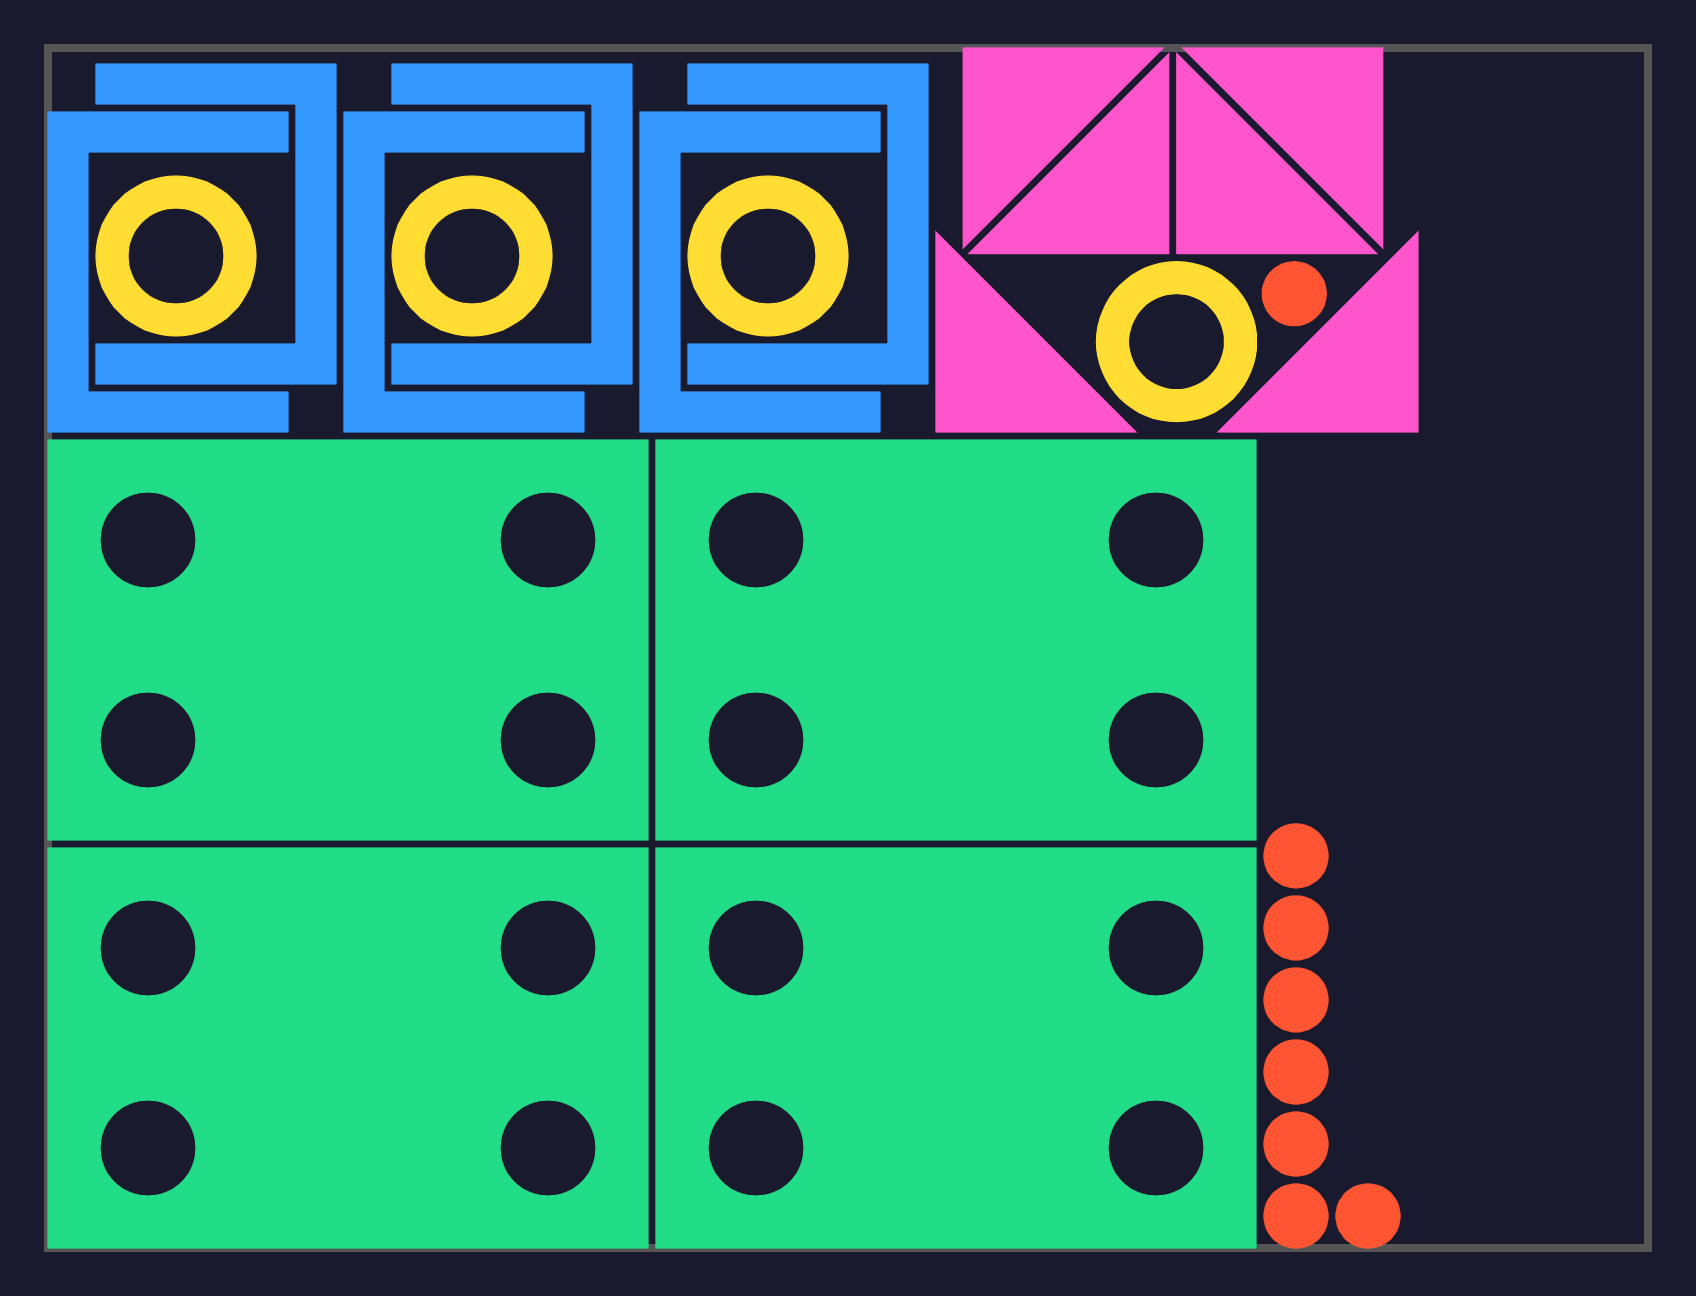
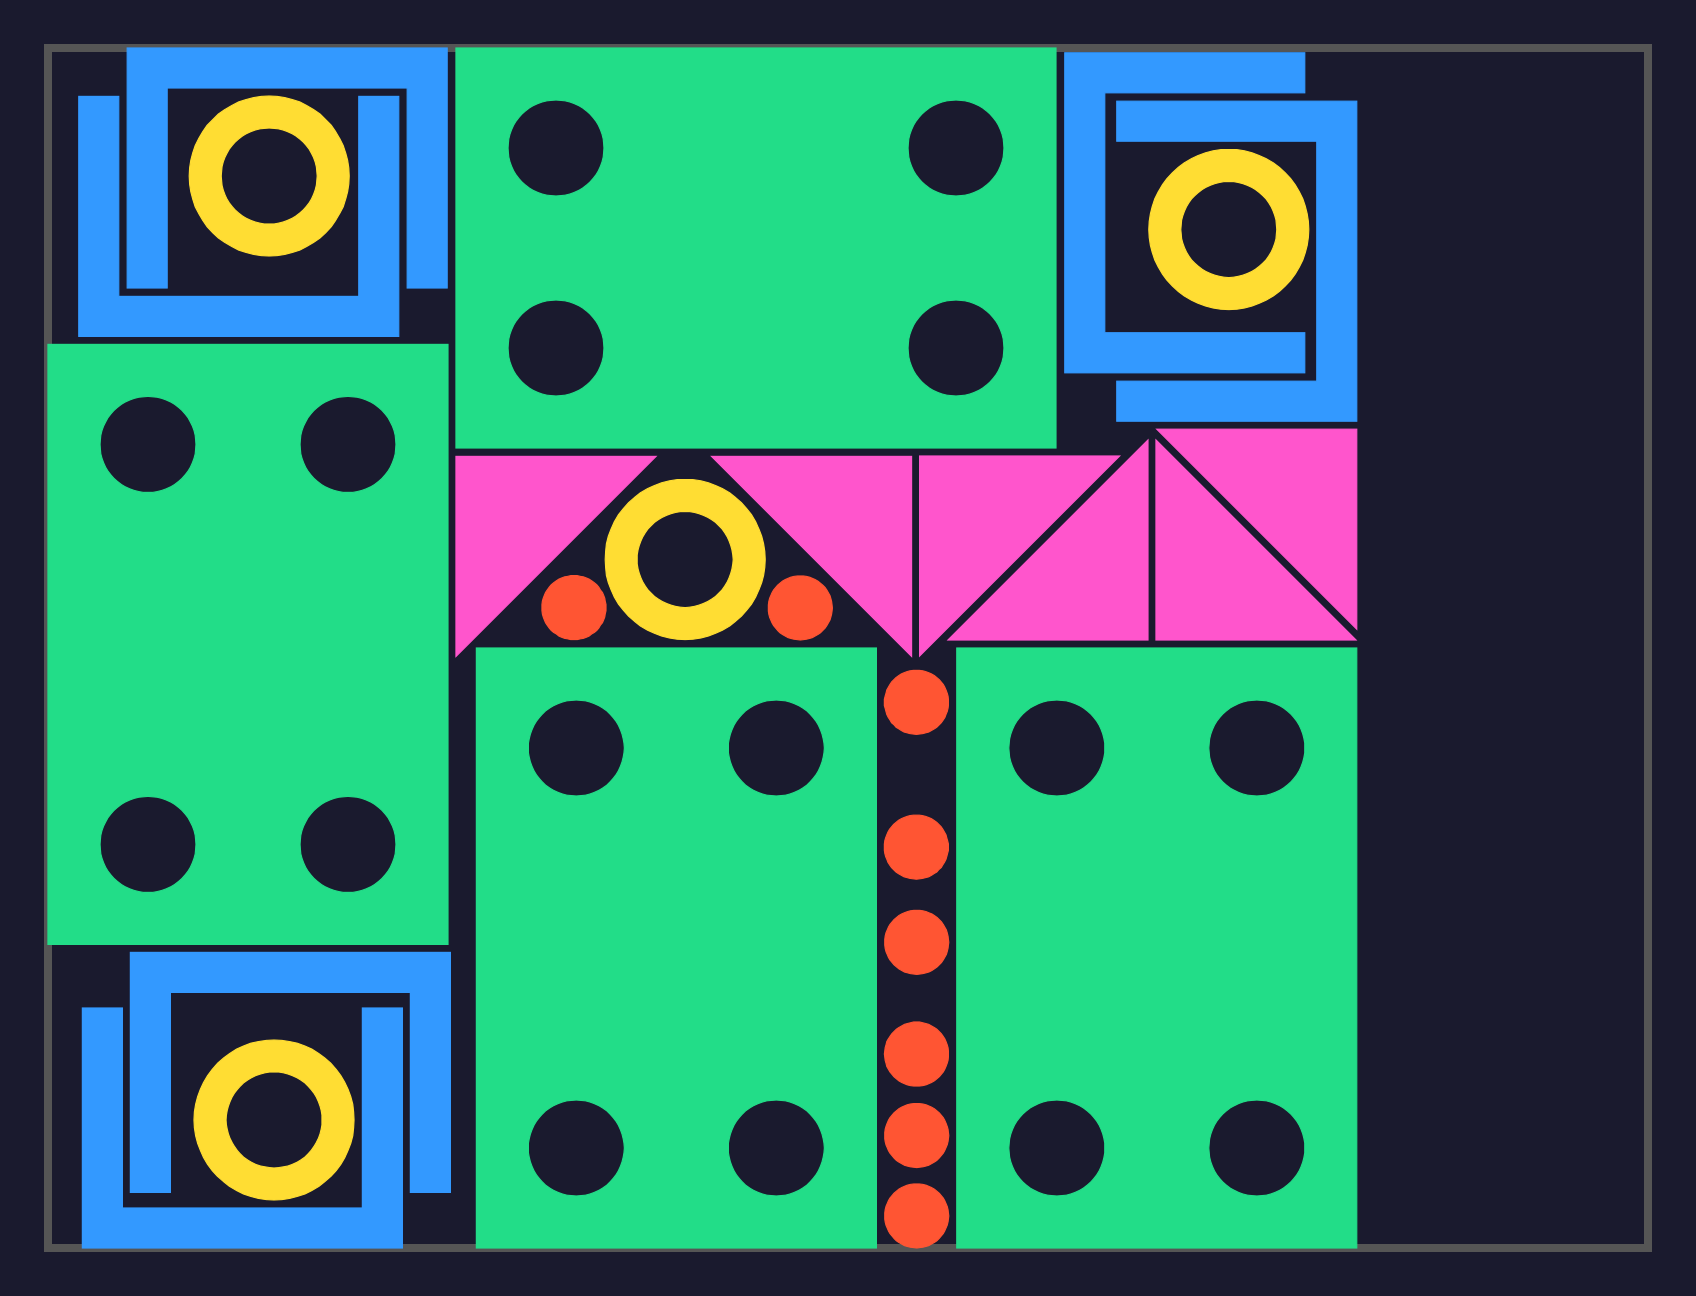
Release v0.10.0: packingsolver 35cbb0fbc, sparse single-bin leftovers fixed
Pin packingsolver 35cbb0fbc (master, 2026-11-03, 87 commits).

Sequential feasibility starts from a column packing for every objective
(fontanf/packingsolver#793, reported in #792). Single-bin
BinPackingWithLeftovers started from the full bin width and shrank it 1%
per sub-problem, so a run stopped early returned a dense block plus a row
of items out to the far edge. 2020 copies of a 26x23 pentagon on one
3000x1500 bin: width 851 in 17.4 s, 0.9.5 needed 71.8 s.

Breaking: upstream removed --use-local-search and
--not-anytime-local-search-maximum-number-of-iterations-without-improvement.
SolverParams follows: use_local_search_linear_programming,
use_local_search_direct_trigonometry (plus the Knitro engines),
not_anytime_local_search_maximum_number_of_failed_separations and
_moves_factor. New fields for every other new irregular flag (tree search
on maximal spaces and relative positions, Benders decomposition,
leftover_all_bins, ...). --seed is read now. optimization_mode accepts
Exact.

Measured against 0.9.5 on a 9-case CAD corpus, paired, 2 reps: 0
unplaced, overlapping or outside items in 36 runs; sheets equal or fewer
(one job 17 -> 15); billed area equal or smaller except +0.07% on one
case; some jobs converge up to 13 s slower.

Tests: test_nesting, test_shapely_easy_use, test_adaptive_stop pass;
gallery renders regenerated.

diff --git a/python/pyckingsolver/solver.py b/python/pyckingsolver/solver.py
@@ -56,7 +56,7 @@ class SolverParams:
     stall_timeout: float | None = None           # kill after this many secs w/o an improving write
     first_solution_timeout: float | None = None  # kill if NO solution appeared after this many secs
     verbosity_level: int = 0
-    seed: int | None = None  # binary currently ignores --seed (marked "not used" upstream)
+    seed: int | None = None
     memory_limit_megabytes: int | None = None  # None/0 = unlimited; caps RAM to fail clean instead of OOM-crashing
     only_write_at_the_end: bool = False
     log_path: str | None = None  # no log-to-stderr knob: main.cpp declares --log2stderr but reads another name
@@ -67,14 +67,22 @@ class SolverParams:
     objective: Objective | str | None = None
 
     # Algorithm selection
-    optimization_mode: str | None = None  # Anytime / NotAnytime / NotAnytimeDeterministic / NotAnytimeSequential
+    optimization_mode: str | None = None  # Anytime / NotAnytime / NotAnytimeDeterministic / NotAnytimeSequential / Exact
     use_tree_search: bool | None = None
     use_tree_search_periodic_packing: bool | None = None  # lattice patterns for item types with >16 copies; auto-selected upstream
-    use_local_search: bool | None = None
+    use_tree_search_maximal_spaces: bool | None = None
+    use_tree_search_relative_positions: bool | None = None  # Feasibility with one bin, open dimension objectives
+    use_local_search_linear_programming: bool | None = None
+    use_local_search_nonlinear_programming: bool | None = None  # needs Knitro, not in the wheel
+    use_local_search_direct_trigonometry: bool | None = None
+    use_local_search_black_box_optimization: bool | None = None  # needs Knitro, not in the wheel
+    local_search_weighting_scheme: str | None = None  # multiplicative / additive
     use_milp_raster: bool | None = None
     use_sequential_single_knapsack: bool | None = None
     use_sequential_value_correction: bool | None = None
     use_column_generation: bool | None = None
+    use_benders_decomposition: bool | None = None
+    benders_decomposition_use_tree_search_relative_positions: bool | None = None
     use_dichotomic_search: bool | None = None
     # Instance reduction (preprocessing): merges identical item types, and under KNAPSACK
     # trims negative-profit types to copies_min. Upstream defaults it ON; set False to skip it.
@@ -97,6 +105,7 @@ class SolverParams:
     item_item_minimum_spacing: float | None = None
     item_bin_minimum_spacing: float | None = None  # applied to every bin in Python (Instance input only)
     leftover_mode: LeftoverMode | str | None = None
+    leftover_all_bins: bool | None = None  # also compare the leftover values of the non-last bins
     bin_unweighted: bool = False
     unweighted: bool = False
     continuous_rotations: bool = False
@@ -104,16 +113,27 @@ class SolverParams:
     # Tuning (rarely needed; defaults are good)
     initial_maximum_approximation_ratio: float | None = None
     maximum_approximation_ratio_factor: float | None = None
+    minimum_maximum_approximation_ratio: float | None = None
     sequential_value_correction_subproblem_tree_search_queue_size: int | None = None
+    anytime_sequential_value_correction_growing_queue_maximum_number_of_iterations: int | None = None
+    sequential_value_correction_restrict_bin_types: bool | None = None
+    sequential_value_correction_scarce_item_types_profit_factor_exponent: float | None = None
     column_generation_subproblem_tree_search_queue_size: int | None = None
+    post_process_last_bin_maximum_number_of_items: int | None = None
+    anytime_sequential_single_knapsack_subproblem_tree_search_initial_queue_size: int | None = None
+    anytime_sequential_single_knapsack_subproblem_tree_search_periodic_packing_initial_queue_size: int | None = None
+    anytime_sequential_single_knapsack_subproblem_local_search_initial_maximum_number_of_moves_factor: int | None = None
     not_anytime_maximum_approximation_ratio: float | None = None
     not_anytime_tree_search_queue_size: int | None = None
     not_anytime_tree_search_periodic_packing_queue_size: int | None = None
+    not_anytime_tree_search_maximal_spaces_queue_size: int | None = None
     not_anytime_sequential_single_knapsack_subproblem_tree_search_queue_size: int | None = None
+    not_anytime_sequential_single_knapsack_subproblem_tree_search_periodic_packing_queue_size: int | None = None
+    not_anytime_sequential_single_knapsack_subproblem_local_search_maximum_number_of_moves_factor: int | None = None
     not_anytime_sequential_value_correction_number_of_iterations: int | None = None
     not_anytime_dichotomic_search_subproblem_tree_search_queue_size: int | None = None
-    # Caps the local search shrinkage loop outside Anytime mode (upstream default 100).
-    not_anytime_local_search_maximum_number_of_iterations_without_improvement: int | None = None
+    not_anytime_local_search_maximum_number_of_failed_separations: int | None = None
+    not_anytime_local_search_maximum_number_of_moves_factor: int | None = None
 
 
 # MARK: Solver ───────────────────────────────────────────────────────────────
@@ -291,24 +311,41 @@ _FLAG_RENAMES = {
 }
 _COERCE = {"objective": Objective, "leftover_mode": LeftoverMode}
 _BOOL_VALUE_FLAGS = (  # "1" / "0"
-    "use_tree_search", "use_tree_search_periodic_packing", "use_local_search", "use_milp_raster",
+    "use_tree_search", "use_tree_search_periodic_packing", "use_tree_search_maximal_spaces",
+    "use_tree_search_relative_positions", "use_local_search_linear_programming",
+    "use_local_search_nonlinear_programming", "use_local_search_direct_trigonometry",
+    "use_local_search_black_box_optimization", "use_milp_raster",
     "use_sequential_single_knapsack", "use_sequential_value_correction", "use_column_generation",
-    "use_dichotomic_search", "reduce",
+    "use_benders_decomposition", "benders_decomposition_use_tree_search_relative_positions",
+    "use_dichotomic_search", "reduce", "leftover_all_bins",
+    "sequential_value_correction_restrict_bin_types",
 )
 _VALUE_FLAGS = (
     "optimization_mode", "linear_programming_solver", "objective", "leftover_mode",
     "memory_limit_megabytes", "log_path", "json_search_tree_path", "anchor_x_weight",
     "anchor_y_weight", "item_item_minimum_spacing", "seed",
+    "local_search_weighting_scheme",
     "initial_maximum_approximation_ratio", "maximum_approximation_ratio_factor",
+    "minimum_maximum_approximation_ratio",
     "sequential_value_correction_subproblem_tree_search_queue_size",
+    "anytime_sequential_value_correction_growing_queue_maximum_number_of_iterations",
+    "sequential_value_correction_scarce_item_types_profit_factor_exponent",
     "column_generation_subproblem_tree_search_queue_size",
+    "post_process_last_bin_maximum_number_of_items",
+    "anytime_sequential_single_knapsack_subproblem_tree_search_initial_queue_size",
+    "anytime_sequential_single_knapsack_subproblem_tree_search_periodic_packing_initial_queue_size",
+    "anytime_sequential_single_knapsack_subproblem_local_search_initial_maximum_number_of_moves_factor",
     "not_anytime_maximum_approximation_ratio",
     "not_anytime_tree_search_queue_size",
     "not_anytime_tree_search_periodic_packing_queue_size",
+    "not_anytime_tree_search_maximal_spaces_queue_size",
     "not_anytime_sequential_single_knapsack_subproblem_tree_search_queue_size",
+    "not_anytime_sequential_single_knapsack_subproblem_tree_search_periodic_packing_queue_size",
+    "not_anytime_sequential_single_knapsack_subproblem_local_search_maximum_number_of_moves_factor",
     "not_anytime_sequential_value_correction_number_of_iterations",
     "not_anytime_dichotomic_search_subproblem_tree_search_queue_size",
-    "not_anytime_local_search_maximum_number_of_iterations_without_improvement",
+    "not_anytime_local_search_maximum_number_of_failed_separations",
+    "not_anytime_local_search_maximum_number_of_moves_factor",
 )
 _PRESENCE_FLAGS = (
     "bin_unweighted", "unweighted", "continuous_rotations", "only_write_at_the_end",

diff --git a/test/generate_images.py b/test/generate_images.py
@@ -25,7 +25,7 @@ from pyckingsolver import InstanceBuilder, Objective, Solver, LeftoverMode, Inst
 class _GallerySolver:
     """Solve in the solver's own deterministic mode so the gallery is stable.
 
-    The default 'Anytime' mode is time-limited and the binary ignores --seed, so
+    The default 'Anytime' mode is time-limited and multi-threaded, so
     each run lands on a different (equally optimal) corner/direction — the images
     drift between regenerations. 'NotAnytimeDeterministic' is a native PackingSolver
     mode (no custom post-processing): identical input -> identical, origin-anchored

diff --git a/python/pyckingsolver/__init__.py b/python/pyckingsolver/__init__.py
@@ -28,7 +28,7 @@ from pyckingsolver.types import (
     SolutionItem,
 )
 
-__version__ = "0.9.5"
+__version__ = "0.10.0"
 
 __all__ = [
     "__version__",

diff --git a/AGENTS.md b/AGENTS.md
@@ -1,8 +1,8 @@
 # pyckingsolver — Agent Knowledge
 
 Python wrapper for [fontanf/packingsolver](https://github.com/fontanf/packingsolver) irregular (2D nesting) module.  
-C++ submodule pinned at `extern/packingsolver` (commit `be6c31921`, 2026-10-20).
-Python wrapper version: `0.9.5` (see `## v0.2.0 Breaking Changes` below).
+C++ submodule pinned at `extern/packingsolver` (commit `35cbb0fbc`, 2026-11-03).
+Python wrapper version: `0.10.0` (see `## v0.2.0 Breaking Changes` below).
 
 ---
 
@@ -58,7 +58,7 @@ so this compares the wrapper to that binary's CLI, its instance JSON reader
   with a ratio it solves (12 rectangles, ratio 1.5, 3 s). The old `0xC0000005` dumps in
   `_crashes/` were exactly that missing ratio.
 - Local search ignores `item_bin_minimum_spacing` under `BIN_PACKING`: 4 30x30 items in a
-  100x100 bin with spacing 5 touch the edge (min coordinate 0.0) with `use_local_search=True`,
+  100x100 bin with spacing 5 touch the edge (min coordinate 0.0) with `use_local_search=True` (0.9.x; now `use_local_search_linear_programming`, not re-checked on `35cbb0fbc`),
   and sit at 5.0 under tree search, sequential single knapsack or the default selection. A lone
   item that nearly fills the bin takes the same path. Worth an upstream report.
 - `main.cpp` declares two flags it never reads: `--log2stderr` (`read_args` checks
@@ -100,6 +100,28 @@ the periodic-packing thresholds. Wrap them only once `instance_builder.cpp::read
   shipped or wrapped. `Objective.BIN_PACKING_CUTTING_COST` belongs to `rectangleguillotine`;
   irregular accepts the string and exits 0 with `bins: null`, so it is deliberately absent
   from the wrapper's `Objective`.
+
+---
+
+## MARK: Recent Upstream Changes (2026-10-20 → 2026-11-03)
+
+Pulled `be6c31921` → `35cbb0fbc` (87 commits). Irregular CLI changed; instance JSON gained
+`parameters.leftover_all_bins`; output gained leftover-value metrics only. Bundled binary rebuilt.
+
+| Commit | Change | Impact |
+|---|---|---|
+| `35cbb0fb` (#793, after our #792) | **Sequential feasibility starts from a column packing for every objective** | The BPPL tail fix. One 3000x1500 bin, 2020 26x23 pentagons, spacing 4: XMax 851 at 8.7 s (2 runs), 0.9.5 needed ~72 s through base `_repack`. |
+| `f37f6ca5` … `b007da91` | Local search engines: linear programming, direct trigonometry, nonlinear and black-box (Knitro) | **Breaking CLI**: `--use-local-search` and `--not-anytime-local-search-maximum-number-of-iterations-without-improvement` removed; wrapper fields renamed to match. LS-DT joins auto-selection. |
+| `601b0b3a`, `fa17d30f`, `d53224cd` | Tree search on maximal spaces, tree search on relative positions, Benders decomposition | New `use_*` fields. |
+| `376b8d1c`, `d30569e8` | BPPL re-optimizes the non-last bins; `leftover_all_bins` | New `leftover_all_bins` field. |
+| `4348be21` | `Exact` optimization mode | Accepted by `optimization_mode`. |
+| `main.cpp` | `--seed` is read now | `seed` comment updated. |
+
+**Measured** (base `nesting_test.py`, 0.9.5 vs this pin, paired on disjoint 12-core sets, 2 reps):
+0 unplaced / overlap / outside in all 36 runs. Sheets equal everywhere except test5 x10 (17 → 15).
+Billed m2: test8 450.2 → 436.3, test5 10.4 → 9.76, K406 4.53 → 4.30, test6-one3000 47.65 → 46.86,
+test1 15.348 → 15.358, others equal or smaller. Slower to converge on K406 (12.6 → 21.7 s),
+test5 (71 → 84 s), test6-one3000 (3.7 → 6.8 s), test8 (51 → 59 s); test1 faster (27 → 23 s).
 
 ---
 
@@ -527,7 +549,8 @@ The 8 objectives irregular solves: `KNAPSACK`, `BIN_PACKING`, `BIN_PACKING_WITH_
 | `memory_limit_megabytes` | ✅ | ✅ | NEW (`--memory-limit`, MiB). `None`/`0` = unlimited. Opt-in OOM guard. |
 | `optimization_mode` | ✅ | ✅ | Anytime / NotAnytime / etc. |
 | `use_tree_search` | ✅ | ✅ | |
-| `use_local_search` | ✅ | ✅ | NEW — local search algorithm |
+| `use_local_search_linear_programming` / `_direct_trigonometry` | ✅ | ✅ | Local search engines (replace `use_local_search` in 0.10.0). The nonlinear and black-box engines need Knitro, which the wheel lacks. |
+| `use_tree_search_maximal_spaces` / `use_tree_search_relative_positions` / `use_benders_decomposition` | ✅ | ✅ | NEW in 0.10.0 |
 | `use_milp_raster` | ✅ | ✅ | NEW — MILP raster algorithm |
 | `use_sequential_single_knapsack` | ✅ | ✅ | |
 | `use_sequential_value_correction` | ✅ | ✅ | |
@@ -718,7 +741,7 @@ For typical CAD nesting (100+ unique parts, copies=1, items fit ~20+ per bin):
 | `not_anytime_tree_search_queue_size` | 512 | Tree search beam width in NotAnytime mode |
 | `not_anytime_sequential_single_knapsack_subproblem_tree_search_queue_size` | 512 | SSK subproblem beam |
 | `not_anytime_dichotomic_search_subproblem_tree_search_queue_size` | 128 | Dichotomic search beam |
-| `not_anytime_local_search_maximum_number_of_iterations_without_improvement` | -1 | Local search shrinkage cap (non-Anytime) |
+| `not_anytime_local_search_maximum_number_of_failed_separations` / `_moves_factor` | | Local search caps (non-Anytime); replace `..._iterations_without_improvement` in 0.10.0 |
 | `sequential_value_correction_subproblem_tree_search_queue_size` | 128 | SVC inner knapsack beam |
 | `column_generation_subproblem_tree_search_queue_size` | 128 | CG inner knapsack beam |
 

diff --git a/README.md b/README.md
@@ -29,22 +29,28 @@ The C++ solver binary is **bundled** — no compilation needed on Windows x64 an
 
 ---
 
-## What's New in 0.9.5
+## What's New in 0.10.0
 
-- **C++ pin moves to packingsolver `be6c31921` (master, 2026-10-20).** No API change: the
-  irregular CLI, instance JSON and certificate are untouched, so no wrapper code moves.
-- **Periodic packing sees obstacles as rectangle sets, not bounding boxes**
-  (fontanf/packingsolver#726, follow-up to #720). Fixed items, defects and bin borders are covered
-  by a few rectangles (shape's new `outer_approximation_by_rectangles`), so a fixed frame's hole
-  stays free. A 400 x 300 frame with a 320 x 220 hole and 200 copies of a 30 x 28 rectangle:
-  0.9.4 placed 0 in the hole by default, 0.9.5 places 77 (63 at spacing 3), the same as
-  `use_tree_search=True`. Periodic packing also no longer loses one item spacing in front of each
-  obstacle, so a grid that fits exactly next to a fixed item or defect is accepted.
-- Periodic packing still places only rectangular grids, so with irregular items
-  `use_tree_search=True` can place more: 200 L shapes beside a solid 400 x 300 fixed item, 66 by
-  default vs 76 with tree search.
-- **Shape update** (shape `9e216ba5` -> `a4efbe93`): adds `outer_approximation_by_rectangles`.
-  The power-of-two helpers return 1 for values <= 0 (bins are larger than 1, so no wrapper effect).
+- **C++ pin moves to packingsolver `35cbb0fbc` (master, 2026-11-03), 87 commits.** New irregular
+  algorithms (local search engines, tree search on maximal spaces and on relative positions, a
+  Benders decomposition), all reachable from `SolverParams`.
+- **Breaking:** `use_local_search` is replaced by `use_local_search_linear_programming` and
+  `use_local_search_direct_trigonometry` (the nonlinear and black-box engines need Knitro, which
+  the wheel does not ship), and
+  `not_anytime_local_search_maximum_number_of_iterations_without_improvement` by
+  `not_anytime_local_search_maximum_number_of_failed_separations` and
+  `not_anytime_local_search_maximum_number_of_moves_factor`. Upstream removed the old flags, so a
+  0.10.0 binary exits with an error on them. `seed` is now honoured. `optimization_mode` accepts
+  `Exact`. New `leftover_all_bins`.
+- **Sparse single-bin `BIN_PACKING_WITH_LEFTOVERS` no longer leaves a tail** (reported in
+  fontanf/packingsolver#792, fixed by #793). The sequential feasibility started from the full bin
+  width and shrank it 1% per sub-problem, so a run stopped early returned a dense block plus a long
+  row of items out to the far edge. It now starts from a column packing. 2020 copies of a 26 x 23
+  pentagon on one 3000 x 1500 bin: width 851 at 8.7 s, where 0.9.5 needed about 72 s.
+- **Measured on a 9-case CAD corpus** (paired, 2 reps, versus 0.9.5): no unplaced, overlapping
+  or out-of-bin item in any run; same or fewer sheets everywhere (one large job 17 -> 15 sheets);
+  used area equal or smaller in 8 of 9 cases (up to 6% smaller), +0.07% in one. Some jobs
+  take longer to converge (up to +9 s).
 
 Older release notes: [CHANGELOG.md](CHANGELOG.md).
 

diff --git a/CHANGELOG.md b/CHANGELOG.md
@@ -2,6 +2,23 @@
 
 Older release notes, moved out of the README. The current release's notes stay there.
 
+## 0.9.5
+
+- **C++ pin moves to packingsolver `be6c31921` (master, 2026-10-20).** No API change: the
+  irregular CLI, instance JSON and certificate are untouched, so no wrapper code moves.
+- **Periodic packing sees obstacles as rectangle sets, not bounding boxes**
+  (fontanf/packingsolver#726, follow-up to #720). Fixed items, defects and bin borders are covered
+  by a few rectangles (shape's new `outer_approximation_by_rectangles`), so a fixed frame's hole
+  stays free. A 400 x 300 frame with a 320 x 220 hole and 200 copies of a 30 x 28 rectangle:
+  0.9.4 placed 0 in the hole by default, 0.9.5 places 77 (63 at spacing 3), the same as
+  `use_tree_search=True`. Periodic packing also no longer loses one item spacing in front of each
+  obstacle, so a grid that fits exactly next to a fixed item or defect is accepted.
+- Periodic packing still places only rectangular grids, so with irregular items
+  `use_tree_search=True` can place more: 200 L shapes beside a solid 400 x 300 fixed item, 66 by
+  default vs 76 with tree search.
+- **Shape update** (shape `9e216ba5` -> `a4efbe93`): adds `outer_approximation_by_rectangles`.
+  The power-of-two helpers return 1 for values <= 0 (bins are larger than 1, so no wrapper effect).
+
 ## 0.9.4
 
 - **C++ pin moves to packingsolver `0b2b69ef3` (master, 2026-10-18).** No API change: the
